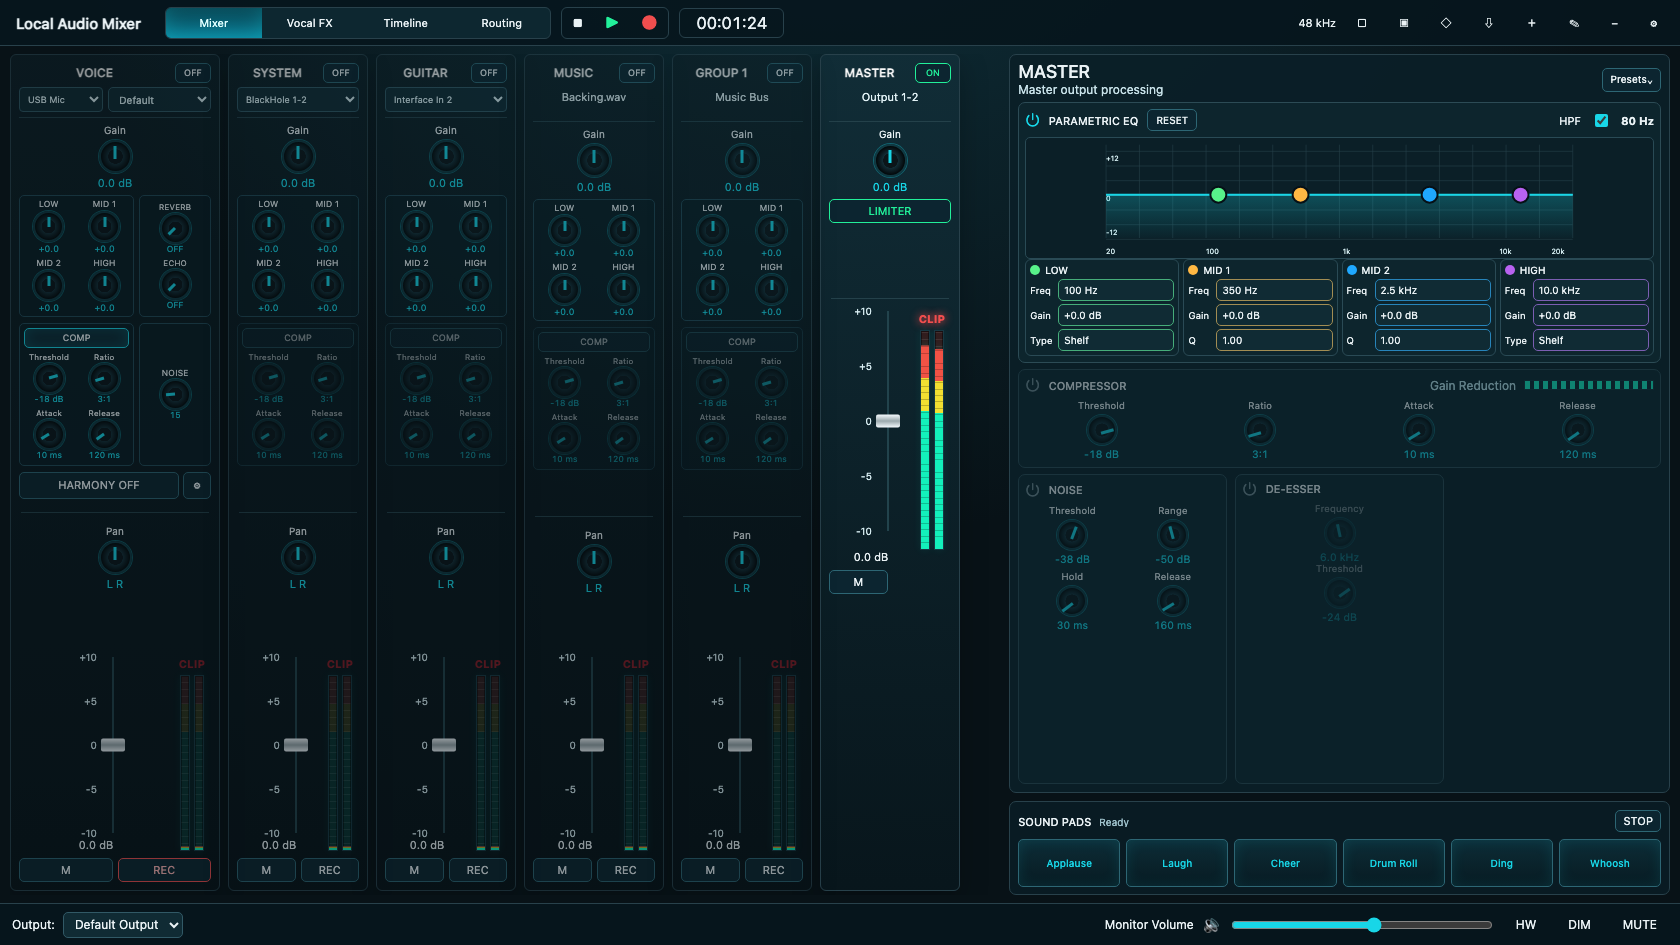
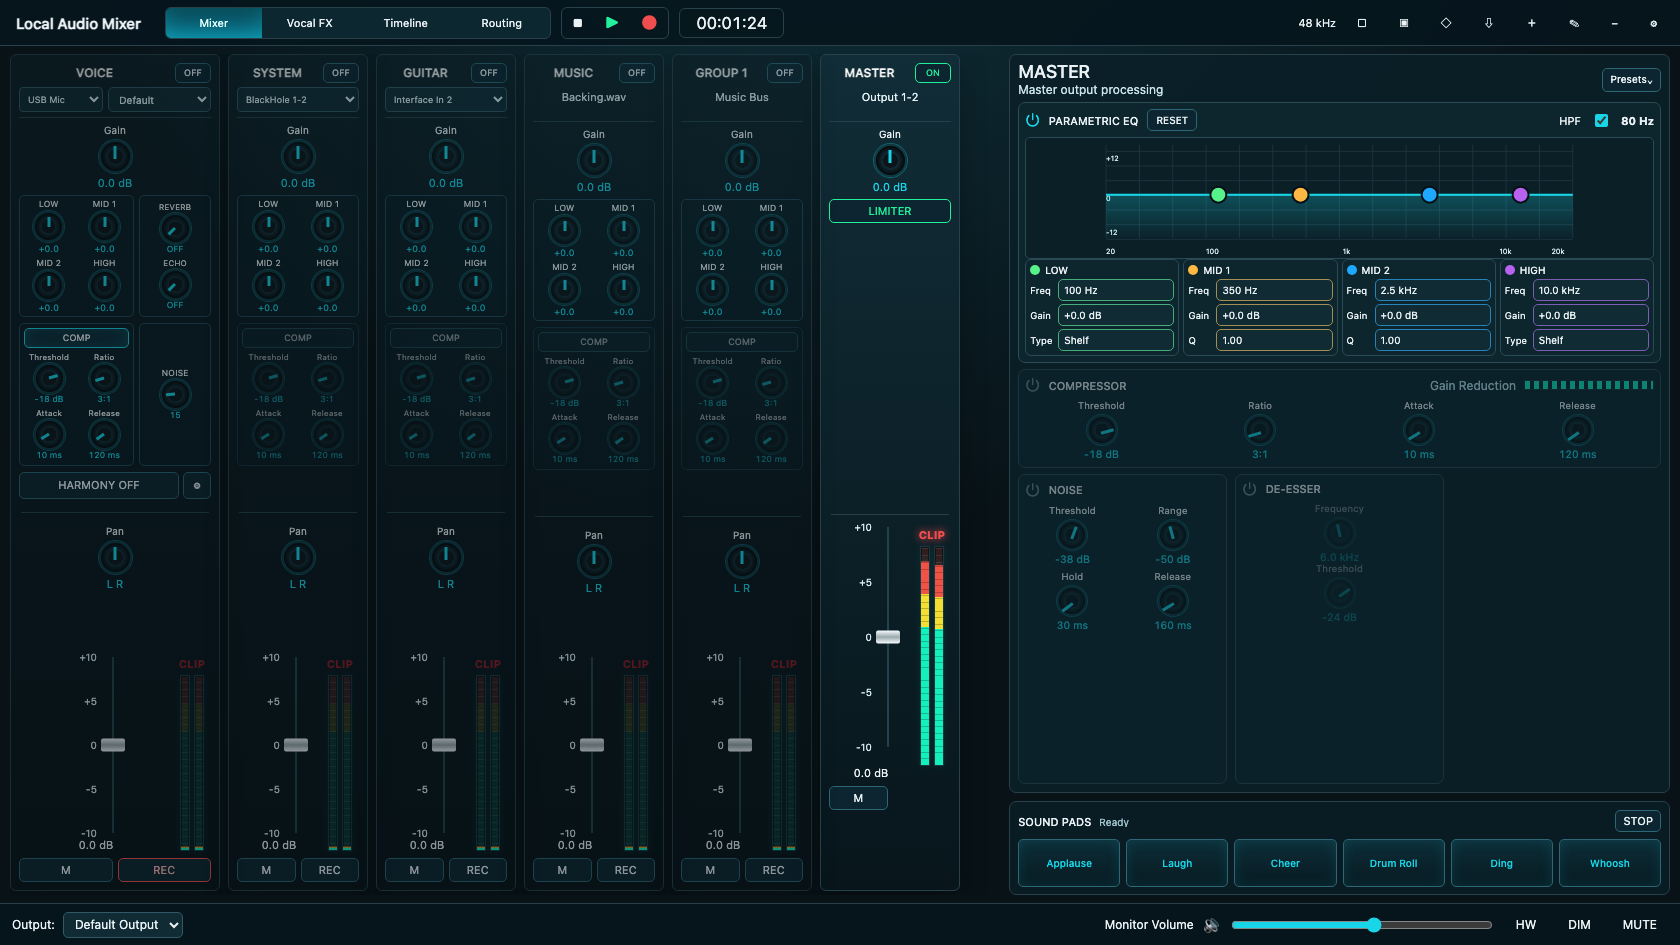
Bottom align master divider

Changed region(s): [[0.4952, 0.3069, 0.5881, 0.8286], [0.4952, 0.8286, 0.5262, 0.8593]]

diff --git a/apps/desktop/src/styles/app.css b/apps/desktop/src/styles/app.css
@@ -121,8 +121,8 @@
 .channel-compressor-controls .rotary-tick { height: 9px; transform-origin: 50% 9px; }
 .channel-compressor-controls .rotary-value { font-size: 8.5px; margin-top: 1px; }
 .processor-slot-placeholder { min-height: 24px; visibility: hidden; }
-.master-upper { display: grid; grid-template-rows: 24px 1fr; gap: 4px; min-height: 86px; }
-.master-upper-spacer { min-height: 47px; }
+.master-upper { display: grid; grid-template-rows: 24px 1fr; gap: 4px; min-height: 302px; }
+.master-upper-spacer { min-height: 263px; }
 .harmony-shortcut { display: grid; grid-template-columns: 1fr 28px; gap: 4px; min-height: 27px; }
 .harmony-shortcut.is-placeholder { visibility: hidden; }
 .strip-divider { height: 1px; background: #24414a; margin: 7px 2px 6px; flex: 0 0 auto; }
@@ -382,8 +382,8 @@
   .channel-strip header { min-height: 40px; padding-bottom: 3px; }
   .processing-buttons { gap: 4px; }
   .processing-buttons .ui-button { min-height: 22px; padding: 1px 8px; }
-  .master-upper { min-height: 80px; grid-template-rows: 22px 1fr; }
-  .master-upper-spacer { min-height: 42px; }
+  .master-upper { min-height: 220px; grid-template-rows: 22px 1fr; }
+  .master-upper-spacer { min-height: 182px; }
   .harmony-shortcut .ui-button { min-height: 22px; padding: 1px 6px; }
   .rotary-label { font-size: 11px; margin-bottom: 0; }
   .rotary-face { width: 30px; height: 30px; }

diff --git a/docs/progress.md b/docs/progress.md
@@ -5044,3 +5044,27 @@ Validation:
 
 Known limitations:
 - Manual confirmation of the MASTER divider alignment in the live desktop app is `NOT_RUN`.
+
+### Phase19 UX Checkpoint — Bottom Align Master Divider
+
+Changed files:
+- `apps/desktop/src/styles/app.css`: lowers the MASTER divider by expanding the master upper spacer so it aligns with GROUP and other channel dividers.
+- `docs/progress.md`: records verification evidence.
+
+Implemented behavior:
+- MASTER divider is no longer raised near the limiter control; it is bottom-aligned with the channel divider level before the fader section.
+- Compact layout receives a proportional spacer adjustment.
+- Master audio path and limiter behavior are unchanged.
+
+Validation:
+- command: `npm run test:visual`
+- exit/result: `0`; Playwright visual suite 6/6 passed, and the desktop screenshot evidence shows MASTER divider aligned with GROUP.
+- command: `npm run typecheck`
+- exit/result: `0`; TypeScript passed.
+- command: `npm run check:file-size`
+- exit/result: `0`; file-size check passed with the existing `MixerPage.tsx 837` warning.
+- command: `npm run verify`
+- exit/result: `0`; plan, file-size, architecture, typecheck, Vitest 55/55, native CTest 43/43, engine self-test, device enumeration smoke, protocol smoke, UI build, and Electron main/preload build passed.
+
+Known limitations:
+- Manual confirmation of the corrected MASTER divider alignment in the live desktop app is `NOT_RUN`.
